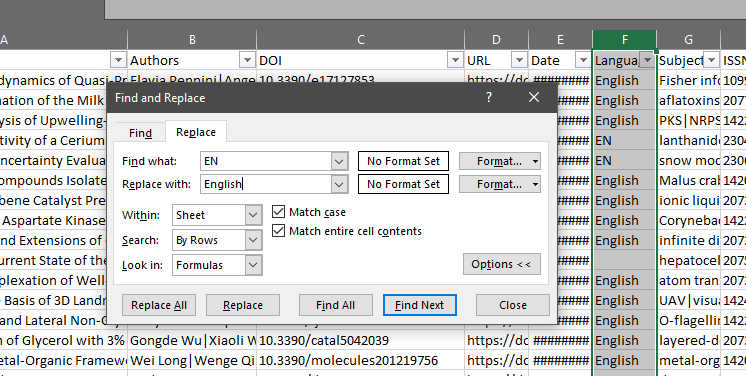
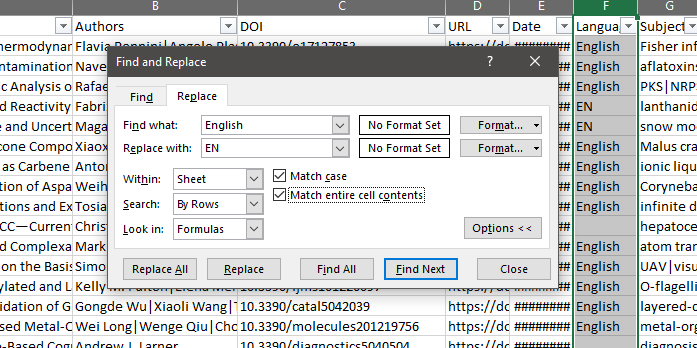
Excel: edit consolidate terms steps and image

diff --git a/cleaning-excel.md b/cleaning-excel.md
@@ -115,7 +115,7 @@ We now know that 23 rows of data do not contain DOIs. If you want to practice th
 
 ## Consolidate Terms
 
-Imposing consistency on data is another common cleaning step. Inconsistent use of terms, abbreviations, decimals, and other data elements can limit the usefulness of our data and hinder analysis. In Excel, we can consolidate terms using `Find and Replace`. We are going to replace the EN abbreviation for `Language` with the full term English. We are not going to fill in cells where `Language` data is missing.
+Imposing consistency on data is another common cleaning step. Inconsistent use of terms, abbreviations, decimals, and other data elements can limit the usefulness of our data and hinder analysis. In Excel, we can consolidate terms using `Find and Replace`. We are going to replace the term "English" in the `Language` column with the abbreviation "EN".
 
 Be sure you are working in your saved file in the `/outputs` directory, e.g.: `/outputs/doaj-article-sample-clean.csv`
 
@@ -125,15 +125,15 @@ Be sure you are working in your saved file in the `/outputs` directory, e.g.: `/
    - Click on `Home` in Excel's menu bar. In the `Home` ribbon, click on `Find & Select`. The icon looks like a magnifying glass. Click on `Replace`.
    - ![Excel's Replace window](/img/excel/replace.png "Replace window")
 3. Fill in the window as follows:
-   - Find what: EN
-   - Replace with: English
+   - Find what: English
+   - Replace with: EN
 4. Click `Options`. We need to make the search more exact for efficiency
    - Check `Match case`
    - Check `Match entire cell contents`
    - ![Completed options in Excel Replace window](/img/excel/replace-options.png "Complete options for data matching")
-5. Click `Find Next` several times to confirm that Excel is only finding cells containing EN in the `Language` column
+5. Click `Find Next` several times to confirm that Excel is only finding cells containing "English" in the `Language` column
    - Once you are satisfied, click `Replace` to replace values one by one, or `Replace All` to replace all values at once
-   - When it's finished, Excel should have made 871 replacements
+   - When it's finished, Excel should have made 107 replacements
 6. Save these changes to your file.
 
 ---
